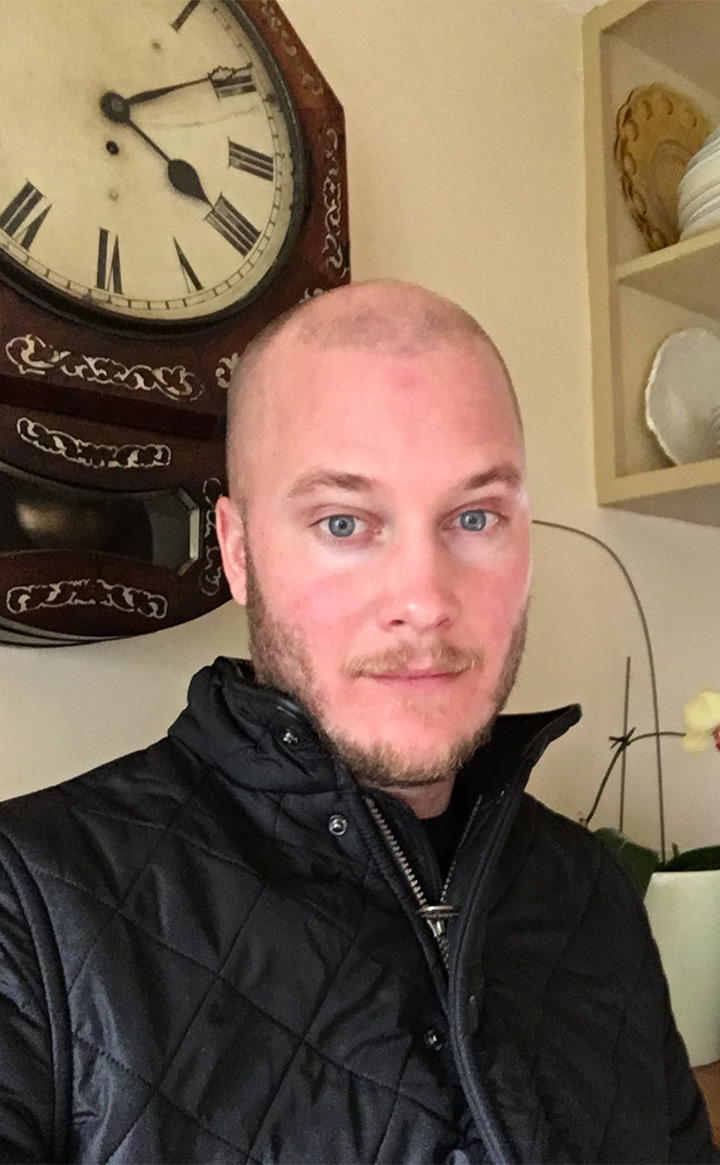
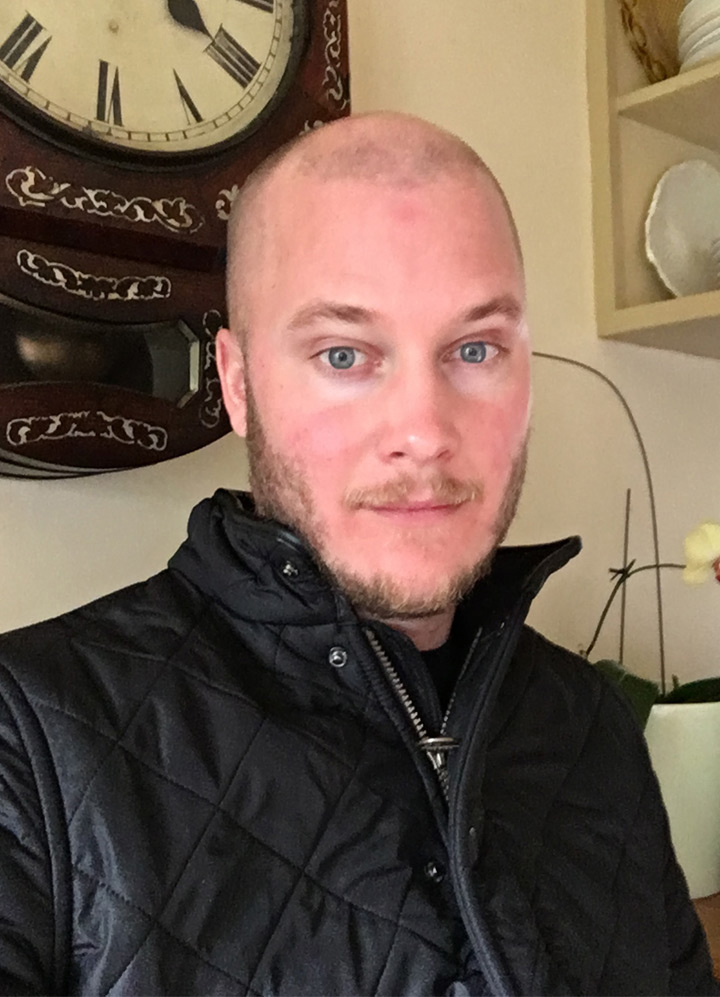
about tweaks

diff --git a/css/screen.css b/css/screen.css
@@ -600,11 +600,10 @@ Media Queries
 	/* Section: About */
 	.about .photo {
 		width: 25rem;
-		height: 25rem;
 		margin: 0 3rem 3rem 0;
 	}
 	.about h1 {
-		padding: 3.5rem 0;
+		padding: 9rem 0 0 0;
 		margin: 0;
 		font-size: 3rem;
 	}
@@ -754,7 +753,6 @@ Media Queries
 	/* Section: About */
 	.about .photo {
 		width: 30rem;
-		height: 30rem;
 		margin: 0 0 0 7rem;
 	}
 	.about h1 {
@@ -906,7 +904,6 @@ Media Queries
 	/* Section: About */
 	.about .photo {
 		width: 32rem;
-		height: 32rem;
 		margin: 0;
 	}
 	.about h1 {
